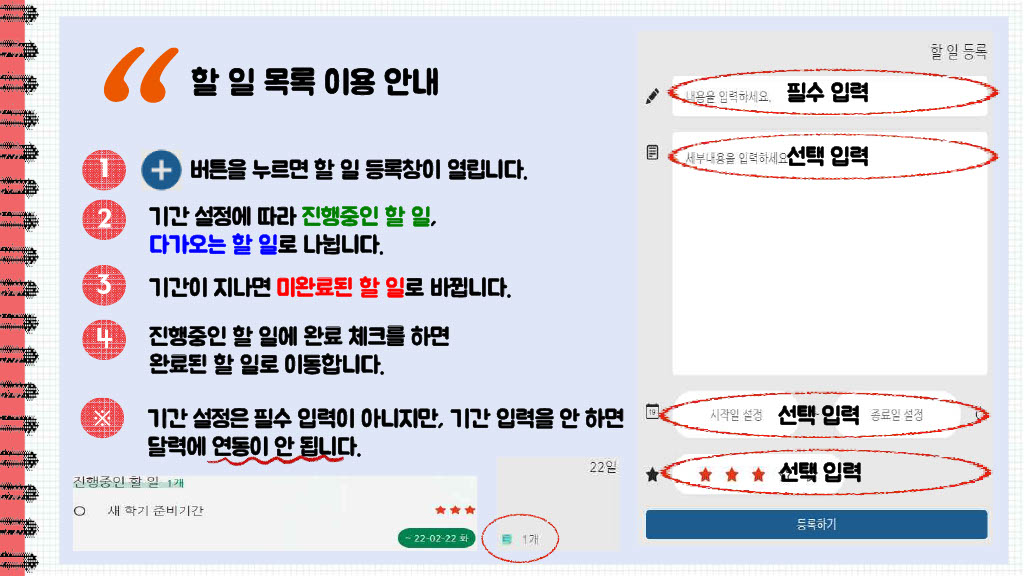
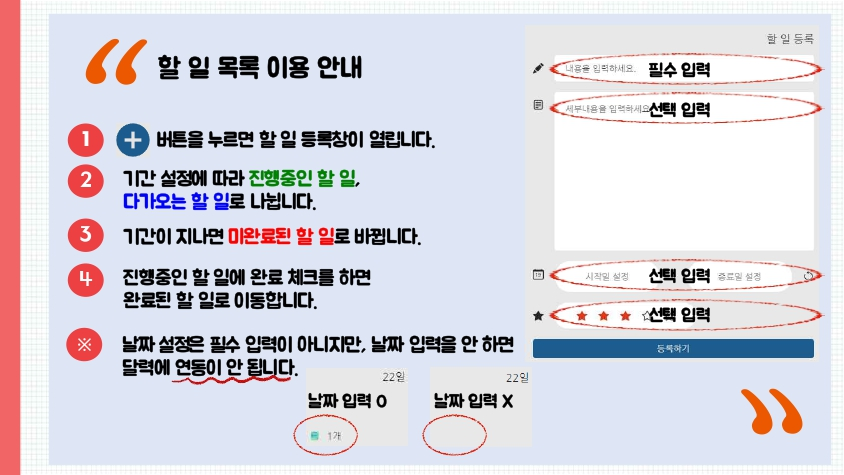
Calendar Helper Image

diff --git a/src/Pages/Calendar.js b/src/Pages/Calendar.js
@@ -30,6 +30,7 @@ import IcHelper from '../icons/Helper/IcHelper';
 import AddJournal from '../Components/Journal/Popup/AddJournal';
 import EditJournal from '../Components/Journal/Popup/EditJournal';
 import NeedLoginPopupContainer from '../Components/Shared/NeedLoginPopupContainer';
+import CalendarHelper from '../Components/Calendar/Popup/CalendarHelper';
 
 const Container = styled.div`
   display: grid;
@@ -67,7 +68,7 @@ const Title = styled.div`
 `
 
 const BtnContainer = styled.div`
-  grid-template-columns: repeat(5, auto);
+  grid-template-columns: repeat(4, auto);
   display: grid;
   align-items: center;
   column-gap: 20px;
@@ -224,6 +225,10 @@ const Calendar = ({ screen, setScreen }) => {
     }
   }
 
+  const onClickHelper = () => {
+    inPopup("CalendarHelper")
+  }
+
   useEffect(() => {
     const newDateArr = []
     const monthStart = startOfMonth(date)
@@ -287,7 +292,7 @@ const Calendar = ({ screen, setScreen }) => {
             <Btn className="calendar_btn" onClick={onClickBtn}><IoIosArrowForward /></Btn>
             {media === "Desktop" && <Btn className="calendar_btn" onClick={onClickFull}>{screen === "small" ? <BiFullscreen /> : <BiExitFullscreen />}</Btn>}
             <Btn className="calendar_btn" onClick={onClickPlusBtn}><AiOutlinePlus /></Btn>
-            <HelpIcon><IcHelper /></HelpIcon>
+            {media === "Desktop" && <HelpIcon onClick={onClickHelper}><IcHelper /></HelpIcon>}
           </BtnContainer>
         </TopContainer>
         {loading ? <Loading page="subPage" /> : <BottomContainerLayout>
@@ -318,6 +323,7 @@ const Calendar = ({ screen, setScreen }) => {
     {isPopup === "eidtAttend" && <EditAttend setErrMsg={setErrMsg} userEmail={me?.email} setMsg={setMsg} setRefetchQuery={setRefetchQuery} urlDate={urlDate} />}
     {isPopup === "selectedStudent" && <AttendSelectedStudent />}
     {isPopup === "needLogin" && <NeedLoginPopupContainer />}
+    {isPopup === "CalendarHelper" && <CalendarHelper />}
     {errMsg && <AlertMessage msg={errMsg} setMsg={setErrMsg} type="error" time={3000} />}
     {msg && <AlertMessage msg={msg} setMsg={setMsg} type="success" time={3000} />}
   </BasicContainer>);

diff --git a/src/Components/TodoList/TodoHead.js b/src/Components/TodoList/TodoHead.js
@@ -2,6 +2,7 @@ import React from 'react';
 import { MdAddCircle } from 'react-icons/md';
 import styled from 'styled-components';
 import { inPopup } from '../../apollo';
+import useMedia from '../../Hooks/useMedia';
 import IcHelper from '../../icons/Helper/IcHelper';
 import { customMedia } from '../../styles';
 
@@ -48,15 +49,13 @@ const ButtonContent = styled.div`
   row-gap: 0.625rem;
   align-self: flex-start;
   align-items: center;
-  ${customMedia.greaterThan("tablet")`
+  ${customMedia.greaterThan("desktop")`
     grid-template-columns: 1fr auto auto;
   `}
 `;
 
 const ComleteToDo = styled.div`
   cursor: pointer;
-  grid-column: 1 / -1;
-  grid-row: 2 / 3;
   align-self: center;
   background-color : ${props => props.theme.btnBgColor};
   color: ${props => props.theme.bgColor};
@@ -68,7 +67,6 @@ const ComleteToDo = styled.div`
   font-size : 0.875rem;
   font-size : 0.875em;
   ${customMedia.greaterThan("tablet")`
-    grid-row: 1 / 2;
     padding: 10px 20px;
     padding: 0.625rem 1.25rem;
     font-size : 1rem;
@@ -109,6 +107,7 @@ const HelpIcon = styled.div`
 `
 
 const TodoHead = ({ userEmail }) => {
+  const media = useMedia()
   const date = new Date()
   const processSetDay = () => {
     const day = date.getDay()
@@ -163,7 +162,7 @@ const TodoHead = ({ userEmail }) => {
       <ButtonContent>
         <ComleteToDo onClick={onClickCompleteBtn}>완료된 할 일</ComleteToDo>
         <AddIcon onClick={onClickCreateBtn}><MdAddCircle /></AddIcon>
-        <HelpIcon onClick={onClickHelper}><IcHelper /></HelpIcon>
+        {media === "Desktop" && <HelpIcon onClick={onClickHelper}><IcHelper /></HelpIcon>}
       </ButtonContent>
     </TodoHeadBlock>
   );

diff --git a/src/Components/Shared/Helper/HelperBtnContainer.js b/src/Components/Shared/Helper/HelperBtnContainer.js
@@ -1,0 +1,60 @@
+import React from 'react';
+import styled from 'styled-components';
+import { outPopup } from '../../../apollo';
+
+const BtnContainer = styled.div`
+  padding-bottom: 10px;
+  padding-bottom: 0.625rem;
+  display: grid;
+  grid-template-columns: 1fr auto;
+  align-items: center;
+`
+
+const OutPopupBtn = styled.div`
+  color: ${props => props.theme.bgColor};
+  background-color: ${props => props.theme.redColor};
+  padding: 10px 40px;
+  padding: 0.625rem 2.5rem;
+  border-radius: 5px;
+  border-radius: 0.3125rem;
+  cursor: pointer;
+`
+
+const NumBtn = styled.div`
+  display: flex;
+`
+
+const NumBox = styled.div`
+  :not(:last-child) {
+    margin-right: 20px;
+    margin-right: 1.25rem;
+  }
+  width: 24px;
+  width: 1.5rem;
+  height: 24px;
+  height: 1.5rem;
+  background-color: ${props => props.theme.btnBgColor};
+  color: ${props => props.theme.bgColor};
+  display: flex;
+  align-items: center;
+  justify-content: center;
+  cursor: pointer;
+  border-radius: 50%;
+`
+
+const HelperBtnContainer = ({ imgArr, onClickNum }) => {
+  const onClickOutPopup = () => {
+    outPopup()
+  }
+  return (<BtnContainer>
+    {!imgArr && <div></div>}
+    {imgArr && <NumBtn>
+      {imgArr.map((item, index) => {
+        return <NumBox key={index} onClick={() => onClickNum(item)}>{item}</NumBox>
+      })}
+    </NumBtn>}
+    <OutPopupBtn onClick={onClickOutPopup}>나가기</OutPopupBtn>
+  </BtnContainer>);
+}
+
+export default HelperBtnContainer;

diff --git a/src/Components/TodoList/Popup/ToDoHelper.js b/src/Components/TodoList/Popup/ToDoHelper.js
@@ -1,43 +1,13 @@
 import React from 'react';
 import BtnPopupContainer from '../../Shared/BtnPopupContainer';
 import ToDoHelperPDF from "../../../Helper/ToDoListHelper.jpg"
-import styled from 'styled-components';
-import { outPopup } from '../../../apollo';
-
-const BtnContainer = styled.div`
-  padding-bottom: 10px;
-  padding-bottom: 0.625rem;
-  display: grid;
-  grid-template-columns: 1fr auto;
-`
-
-const OutPopupBtn = styled.div`
-  color: ${props => props.theme.bgColor};
-  background-color: ${props => props.theme.redColor};
-  padding: 10px 40px;
-  padding: 0.625rem 2.5rem;
-  border-radius: 5px;
-  border-radius: 0.3125rem;
-  cursor: pointer;
-`
-
-const HelperImg = styled.img`
-  width: 60vw;
-  height: 60vh;
-`
-
+import HelperBtnContainer from '../../Shared/Helper/HelperBtnContainer';
+import HelperImg from '../../Shared/Helper/HelperImg';
 
 const ToDoHelper = () => {
 
-  const onClickOutPopup = () => {
-    outPopup()
-  }
-
   return (<BtnPopupContainer>
-    <BtnContainer>
-      <div></div>
-      <OutPopupBtn onClick={onClickOutPopup}>나가기</OutPopupBtn>
-    </BtnContainer>
+    <HelperBtnContainer />
     <HelperImg src={ToDoHelperPDF} />
   </BtnPopupContainer>);
 }

diff --git a/src/Components/Calendar/Popup/CalendarHelper.js b/src/Components/Calendar/Popup/CalendarHelper.js
@@ -1,0 +1,29 @@
+import React, { useState } from 'react';
+import BtnPopupContainer from '../../Shared/BtnPopupContainer';
+import HelperBtnContainer from '../../Shared/Helper/HelperBtnContainer';
+import HelperImg from '../../Shared/Helper/HelperImg';
+import CalendarHelper1 from "../../../Helper/CalendarHelper1.jpg"
+import CalendarHelper2 from "../../../Helper/CalendarHelper2.jpg"
+
+const CalendarHelper = () => {
+  const [helperImg, setHelperImg] = useState(1)
+
+  const onClickNum = (num) => {
+    setHelperImg(num)
+  }
+
+  const processImg = () => {
+    if (helperImg === 1) {
+      return CalendarHelper1
+    } else {
+      return CalendarHelper2
+    }
+  }
+
+  return (<BtnPopupContainer>
+    <HelperBtnContainer imgArr={[1, 2]} onClickNum={onClickNum} />
+    <HelperImg src={processImg()} />
+  </BtnPopupContainer>);
+}
+
+export default CalendarHelper;

diff --git a/src/Components/Shared/Helper/HelperImg.js b/src/Components/Shared/Helper/HelperImg.js
@@ -1,0 +1,6 @@
+import styled from "styled-components";
+
+export default styled.img`
+  width: 60vw;
+  height: 60vh;
+`
